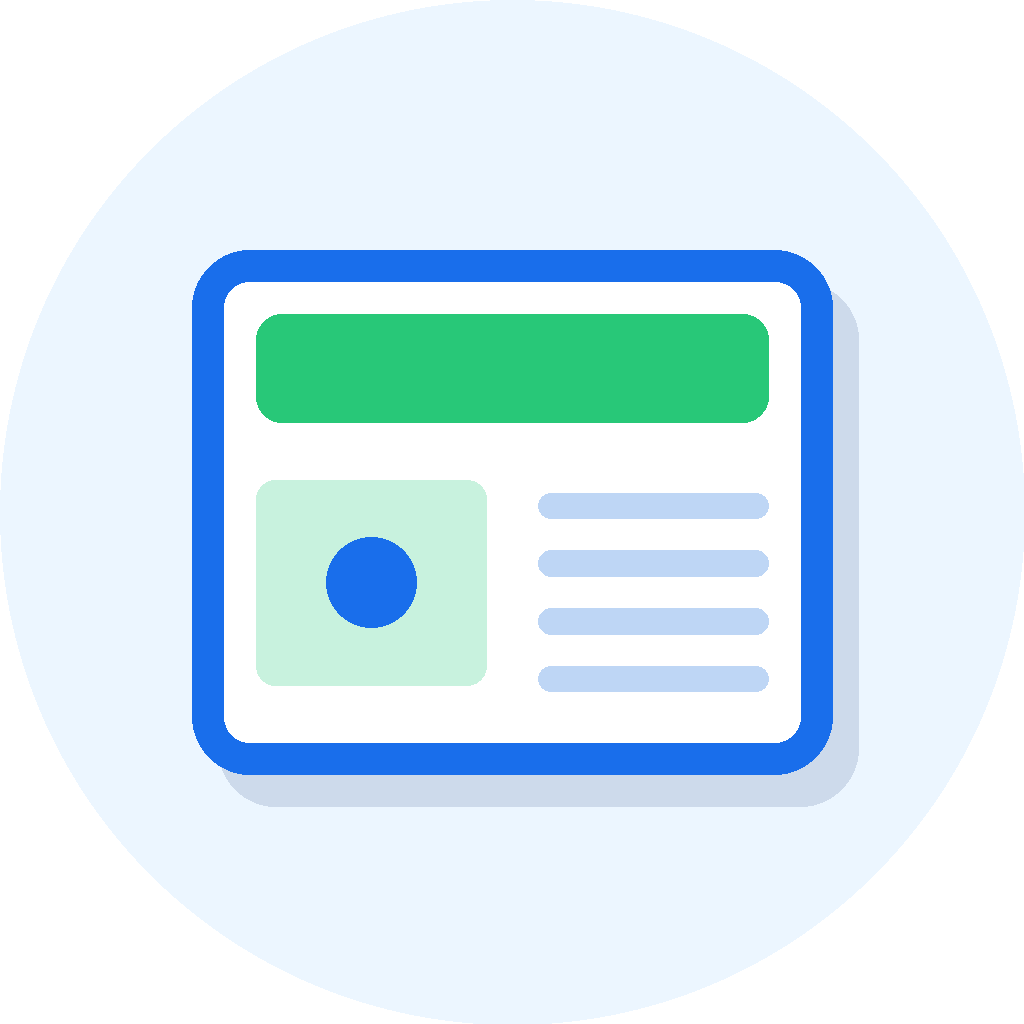
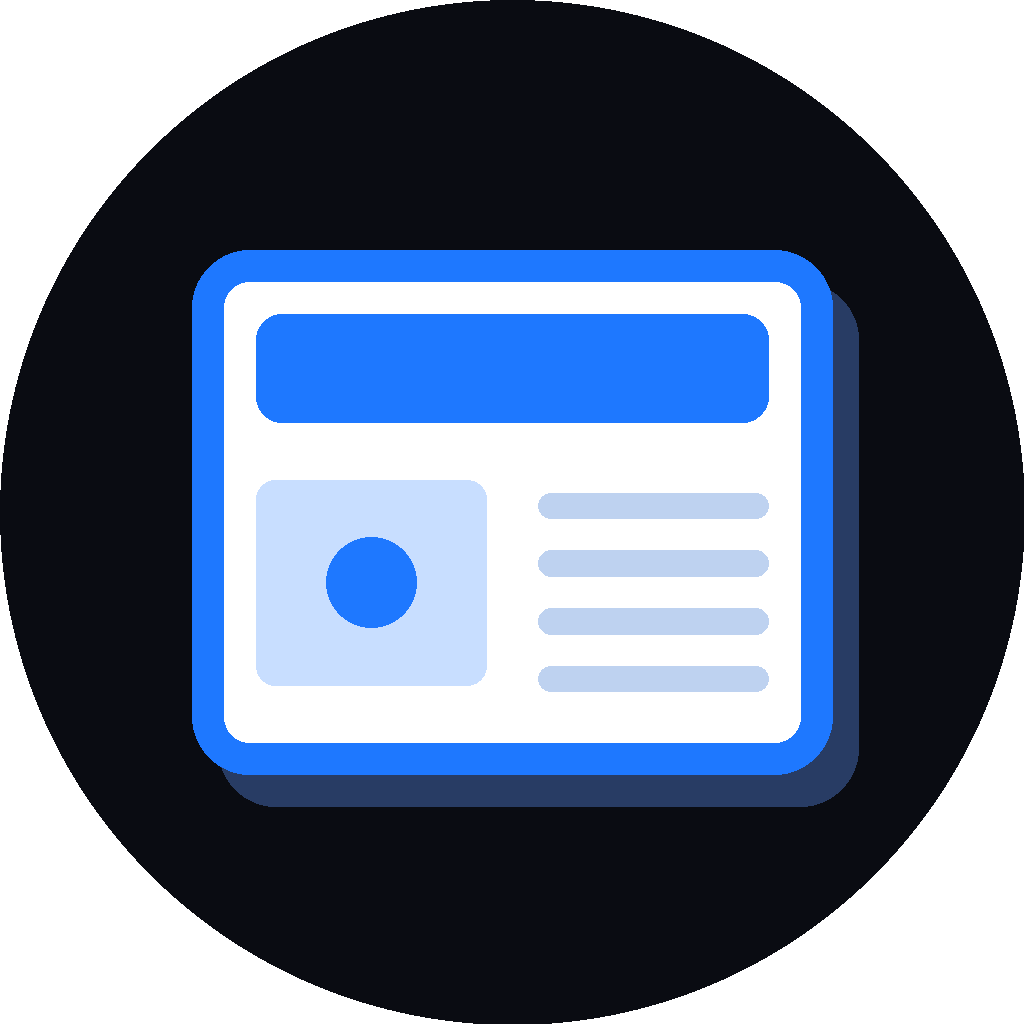
오늘뉴스 로고·아이콘·배너: 파랑·검정으로 변경
Claude-Session: https://claude.ai/code/session_01WiWsqY5DGB94hFGvT91gKx

diff --git a/news/brand/make_brand.py b/news/brand/make_brand.py
@@ -9,14 +9,15 @@ def F(path, size):
         f = ImageFont.truetype(path, size, index=i)
         if "KR" in f.getname()[0]: return f
     return ImageFont.truetype(path, size)
-BLUE = (25, 110, 235); NAVY = (10, 38, 90); GREEN = (40, 200, 120); MINT = (200, 242, 222)
-SKY = (236, 246, 255); PAPER = (255, 255, 255); LINE = (190, 214, 245)
+# 파랑·검정 (2026-11-03 핑포 결정, 쇼츠 색과 같게)
+BLUE = (30, 120, 255); NAVY = (255, 255, 255); GREEN = (30, 120, 255); MINT = (200, 222, 255)
+SKY = (10, 12, 18); PAPER = (255, 255, 255); LINE = (190, 210, 240); DOT = (30, 120, 255)
 
 def newspaper(d, cx, cy, s):
-    """신문 아이콘: 파란 테두리 종이 + 초록 머리띠 + 줄 + 작은 해."""
+    """신문 아이콘: 파란 테두리 종이 + 파란 머리띠 + 줄 + 작은 해."""
     w, h = 1.0 * s, 0.82 * s
     x0, y0 = cx - w / 2, cy - h / 2
-    d.rounded_rectangle([x0 + s*0.04, y0 + s*0.05, x0 + w + s*0.04, y0 + h + s*0.05], radius=s*0.09, fill=(205, 218, 235))
+    d.rounded_rectangle([x0 + s*0.04, y0 + s*0.05, x0 + w + s*0.04, y0 + h + s*0.05], radius=s*0.09, fill=(40, 60, 100))
     d.rounded_rectangle([x0, y0, x0 + w, y0 + h], radius=s*0.09, fill=PAPER, outline=BLUE, width=max(3, int(s*0.05)))
     d.rounded_rectangle([x0 + s*0.1, y0 + s*0.1, x0 + w - s*0.1, y0 + s*0.27], radius=s*0.04, fill=GREEN)
     # 사진 칸 + 해
@@ -47,8 +48,8 @@ b = Image.new("RGBA", (W, H), SKY + (255,)); d = ImageDraw.Draw(b)
 for row, y in enumerate([440, 1020]):
     for k in range(12):
         x = 100 + k * 220 + (110 if row else 0)
-        c = GREEN if (k + row) % 2 else BLUE
-        d.ellipse([x - 20, y - 20, x + 20, y + 20], fill=tuple(int(v * 0.35 + 255 * 0.65) for v in c))
+        a = 0.45 if (k + row) % 2 else 0.25
+        d.ellipse([x - 20, y - 20, x + 20, y + 20], fill=tuple(int(DOT[i] * a + SKY[i] * (1 - a)) for i in range(3)))
 cy = H // 2
 ft, fs, fp = F(BLACK, 112), F(BOLD, 56), F(BOLD, 48)
 title, sub, pill = "핑포의 오늘뉴스", "바쁜 하루, 꼭 알아야 할 소식만 쏙쏙", "출근길 1분 뉴스 · 생활 꿀뉴스 · 오늘의 화제"
@@ -56,11 +57,11 @@ textw = max(d.textlength(title, font=ft), d.textlength(sub, font=fs), d.textleng
 R, gap = 150, 60
 total = 2 * R + gap + textw
 x0 = (W - total) / 2
-d.ellipse([x0, cy - R, x0 + 2 * R, cy + R], fill=(255, 255, 255))
+d.ellipse([x0, cy - R, x0 + 2 * R, cy + R], fill=(28, 34, 48))
 newspaper(d, x0 + R, cy, 200)
 tx = x0 + 2 * R + gap
 d.text((tx, cy - 165), title, font=ft, fill=NAVY)
-d.text((tx, cy - 20), sub, font=fs, fill=BLUE)
+d.text((tx, cy - 20), sub, font=fs, fill=(140, 190, 255))
 pw = d.textlength(pill, font=fp)
 d.rounded_rectangle([tx, cy + 70, tx + pw + 70, cy + 155], radius=42, fill=GREEN)
 d.text((tx + 35, cy + 80), pill, font=fp, fill=(255, 255, 255))
